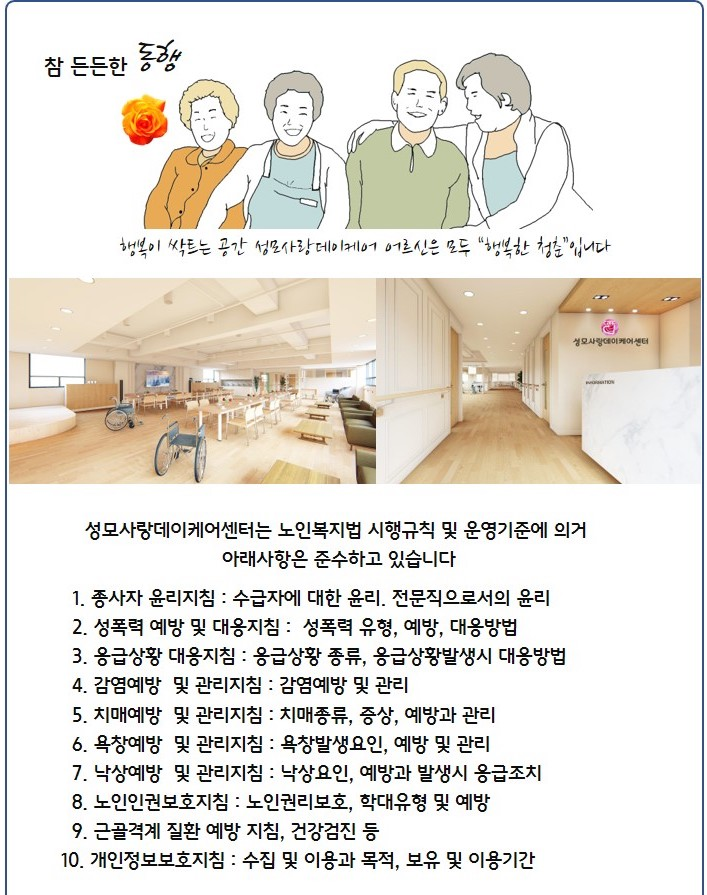
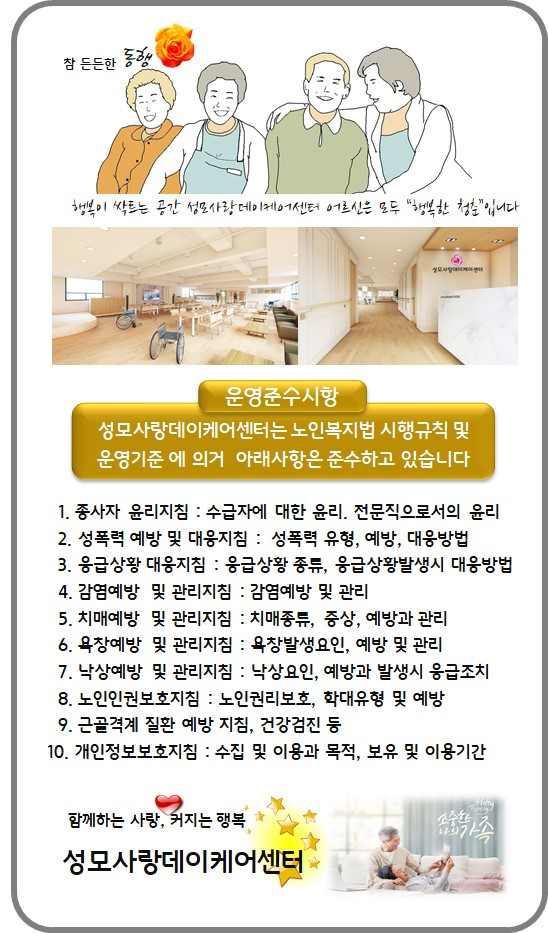
rightside / nav fix image add - longBanner

diff --git a/project/public/html/centerintro/cen_target.html b/project/public/html/centerintro/cen_target.html
@@ -26,7 +26,7 @@
                         <span><a href="/centerintro">센터소개</a></span>
                         <ul class="dept02" id="border1">
                             <li><a href="/centerintro">인사말</a></li>
-                            <li><a href="/cen_target">센터목표</a></li>
+                            <li><a href="/cen_target">운영규정</a></li>
                             <li><a href="/facilityin">시설현황</a></li>
                             <li><a href="/enterin">입소안내</a></li>
                             <li><a href="/mapin">찾아오시는 길</a></li>
@@ -78,7 +78,7 @@
         </div>
         <ul class="testdiv">
             <li><a href="/centerintro">인사말</a></li>
-            <li><a href="/cen_target" id="asideNav">센터목표</a></li>
+            <li><a href="/cen_target" id="asideNav">운영규정</a></li>
             <li><a href="/facilityin">시설현황</a></li>
             <li><a href="/enterin">입소안내</a></li>
             <li><a href="/mapin">찾아오시는 길</a></li>
@@ -91,12 +91,15 @@
         </div>
         <article>
             <div class="pArticleHead">
-                <span id="pPost"><h1>센터목표</h1></span>
-                <span id="pNav"><a href="/">HOME</a>&nbsp;>&nbsp;<a href="/centerintro">센터소개</a>&nbsp;>&nbsp;센터목표</span>     
+                <span id="pPost"><h1>운영규정</h1></span>
+                <span id="pNav"><a href="/">HOME</a>&nbsp;>&nbsp;<a href="/centerintro">센터소개</a>&nbsp;>&nbsp;운영규정</span>     
             </div>
         </article>
     </div>
     
+    <div class="rightAside">
+        <img src="../../assets/images/rightside.jpg" style="width : 100%; height: 500px;" id="rightBelow">
+    </div>
     <footer>
         <div class="left_footer">
             <div class="footer_logo_class"><a href="/"><img src="../../assets/images/logo.jpg" id="footer_logo"></a></div>

diff --git a/project/public/html/programintro/daycarein.html b/project/public/html/programintro/daycarein.html
@@ -93,6 +93,7 @@
         <div class="introbanner">
             <img src="../../assets/images/introbanner.jpg" class="introbanner_img">
             <img src="../../assets/images/banner.png" style="display: none;" class="introbanner_img">
+            <img src="../../assets/images/longBanner.jpeg" style="display: none;" class="introbanner_img">
         </div>
         <article class="daycare_Article">
             <div class="ArticleHead">
@@ -241,10 +242,17 @@
             if (banner[0].style.display=="none"){
                 banner[0].style.display="block";
                 banner[1].style.display="none";
+                banner[2].style.display="none";
             }
-            else{
+            else if(banner[1].style.display=="none"){
                 banner[1].style.display="block";
                 banner[0].style.display="none";
+                banner[2].style.display="none";
+            }
+            else if(banner[2].style.display=="none"){
+                banner[2].style.display="block";
+                banner[0].style.display="none";
+                banner[1].style.display="none";
             }
         }
         setInterval(banner,2000);

diff --git a/project/public/css/common.css b/project/public/css/common.css
@@ -305,9 +305,12 @@ footer a:hover{
     margin-left : 7vw;
 }
 
+article{
+
+}
 .introbanner{
     width : 56vw;
-    height : 15vw;
+    height : 10vw;
     float: left;
 }
 
@@ -322,7 +325,7 @@ aside{ /*Commonly used aside (nav aside)*/
     width : 15%;
     height : 500px;
     text-align: center;
-    margin-top: 60px;
+    margin-top: 0px;
     /*margin-right : 50px;*/
 }
 
@@ -363,8 +366,9 @@ aside li ul li{
 /*right aside*/
 .rightAside{
     position : fixed;
-    left : 79vw;
-    margin-top : 60px;
+    left : 78vw;
+    margin-top : 0px;
+    margin-right: 1px;
 }
 
 /*end aside*/
@@ -574,7 +578,7 @@ aside li ul li{
 /* facility.html*/
 .facility_Article{
     width : 80%;
-    height : 1000px;
+    height : 1150px;
     margin : 0 auto;    
     float : left;
 }
@@ -879,7 +883,7 @@ aside li ul li{
 /* cureservi.html */
 .cure_Article{
     width : 80%;
-    height : 700px;
+    height : 800px;
     float : left;
 }
 /* daycarein.html */

diff --git a/project/public/html/centerintro/facilityin.html b/project/public/html/centerintro/facilityin.html
@@ -97,7 +97,7 @@
                 <span id="pPost"><h1>시설현황</h1></span>
                 <span id="pNav"><a href="/">HOME</a>&nbsp;>&nbsp;<a href="/centerintro">센터소개</a>&nbsp;>&nbsp;시설현황</span>     
             </div>
-            <div class="cArticleBody" style="width : 90%; height : 100%;">
+            <div class="cArticleBody" style="width : 90%; height : 1000px;">
                 <div class="facility_photo" id="fa_photo1">
                     <img src="../../assets/images/facility1.png" title="사진보기" style="width : 100%; height : 90%; float:left; margin-bottom: 0.5vh;">
                     <span>재활치료실</span>
